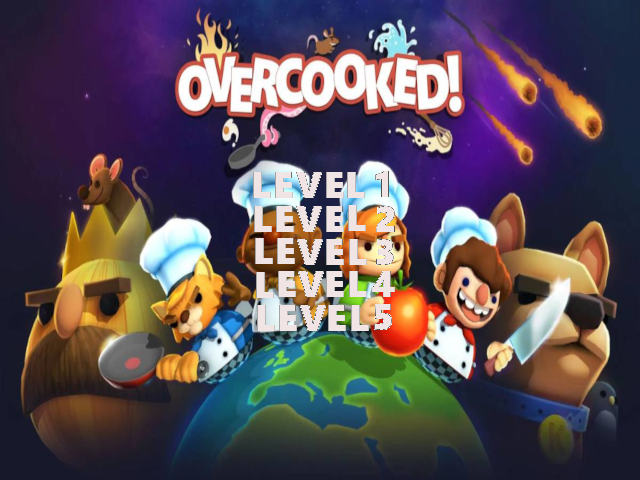
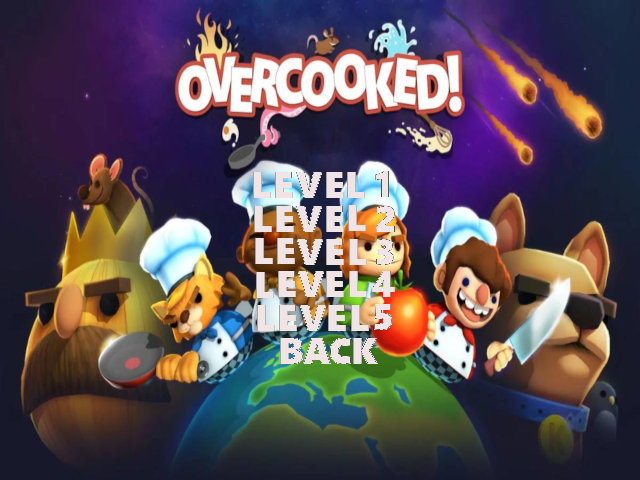
Menus funcionals

Changed region(s): [[0.4375, 0.6875, 0.5938, 0.7812]]

diff --git a/Overcooked/Overcooked/Scene.cpp b/Overcooked/Overcooked/Scene.cpp
@@ -51,6 +51,10 @@ void Scene::init()
 	levelMenu = Sprite::createSprite(glm::ivec2(CAMERA_WIDTH, CAMERA_HEIGHT), glm::vec2(1.f, 1.f), &levelMenuSpriteSheet, &texProgram);
 	levelMenu->setPosition(glm::vec2(0.f, 0.f));
 
+	pauseMenuSpriteSheet.loadFromFile("images/PauseMenu.png", TEXTURE_PIXEL_FORMAT_RGBA);
+	pauseMenu = Sprite::createSprite(glm::ivec2(CAMERA_WIDTH, CAMERA_HEIGHT), glm::vec2(1.f, 1.f), &pauseMenuSpriteSheet, &texProgram);
+	pauseMenu->setPosition(glm::vec2(0.f, 0.f));
+
 	arrow = new Menu();
 	arrow->init(texProgram);
 	arrow->setType(Menu::MAIN);
@@ -140,6 +144,11 @@ void Scene::update(int deltaTime)
 		}
 		if (inputCd >= INPUT_CD && Game::instance().getKey(27)) {
 			currentState = PAUSED;
+			arrow->setType(Menu::PAUSE);
+		}
+		else
+		{
+			inputCd += deltaTime;
 		}
 	}
 	else {
@@ -158,8 +167,9 @@ void Scene::update(int deltaTime)
 				case Menu::MAIN:
 					switch (arrow->getPosition())
 					{
-					case 0: currentState = LEVELMENU;
+					case 0: { currentState = LEVELMENU;
 						arrow->setType(Menu::LEVEL);
+					}
 						break;
 					case 1:
 						break;
@@ -184,6 +194,9 @@ void Scene::update(int deltaTime)
 						createLevel(arrow->getPosition() + 1);
 						currentState = PLAYING;
 						break;
+					case 5:
+						currentState = MAINMENU;
+						arrow->setType(Menu::MAIN);
 					default:
 						break;
 					}
@@ -193,7 +206,9 @@ void Scene::update(int deltaTime)
 					{
 					case 0: currentState = PLAYING;
 						break;
-					case 1: currentState = MAINMENU;
+					case 1: { currentState = MAINMENU;
+						arrow->setType(Menu::MAIN);
+					}
 						break;
 					case 2: Game::instance().exit();
 						break;
@@ -255,7 +270,7 @@ void Scene::render()
 
 	if (currentState == PAUSED) {
 		arrow->render();
-		//pauseMenu->render();
+		pauseMenu->render();
 	}
 
 	if (currentState == PLAYING || currentState == PAUSED) {

diff --git a/Overcooked/Overcooked/Menu.cpp b/Overcooked/Overcooked/Menu.cpp
@@ -31,7 +31,9 @@ void Menu::goUp()
 		if (type == MAIN)
 			currentPosition = 2;
 		if (type == LEVEL)
-			currentPosition = 4;
+			currentPosition = 5;
+		if (type == PAUSE)
+			currentPosition = 2;
 	}
 	changePosition();
 }
@@ -41,7 +43,9 @@ void Menu::goDown()
 	++currentPosition;
 	if (type == MAIN && currentPosition > 2)
 		currentPosition = 0;
-	if (type == LEVEL && currentPosition > 4)
+	if (type == LEVEL && currentPosition > 5)
+		currentPosition = 0;
+	if(type == PAUSE && currentPosition > 2)
 		currentPosition = 0;
 	changePosition();
 }
@@ -85,6 +89,20 @@ void Menu::changePosition()
 		case 3: setPosition(glm::vec2(12.25f * 32.f, 8.4f * 32.f));
 			break;
 		case 4: setPosition(glm::vec2(12.25f * 32.f, 9.45f * 32.f));
+			break;
+		case 5: setPosition(glm::vec2(12.25f * 32.f, 10.5f * 32.f));
+		default:
+			break;
+		}
+		break;
+	case Menu::PAUSE:
+		switch (currentPosition)
+		{
+		case 0: setPosition(glm::vec2(12.75f * 32.f, 6.8f * 32.f));
+			break;
+		case 1: setPosition(glm::vec2(14.75f * 32.f, 7.9f * 32.f));
+			break;
+		case 2: setPosition(glm::vec2(11.25f * 32.f, 9.05f * 32.f));
 			break;
 		default:
 			break;

diff --git a/Overcooked/Overcooked/Game.cpp b/Overcooked/Overcooked/Game.cpp
@@ -26,8 +26,8 @@ void Game::render()
 
 void Game::keyPressed(int key)
 {
-	if (key == 27) // Escape code
-		bPlay = false;
+	//if (key == 27) // Escape code
+		//bPlay = false;
 	keys[key] = true;
 }
 

diff --git a/Overcooked/Overcooked/Scene.h b/Overcooked/Overcooked/Scene.h
@@ -57,6 +57,9 @@ private:
 	Texture mainMenuSpriteSheet;
 	Sprite* levelMenu;
 	Texture levelMenuSpriteSheet;
+	Sprite* pauseMenu;
+	Texture pauseMenuSpriteSheet;
+
 	Menu *arrow;
 	int inputCd;
 
